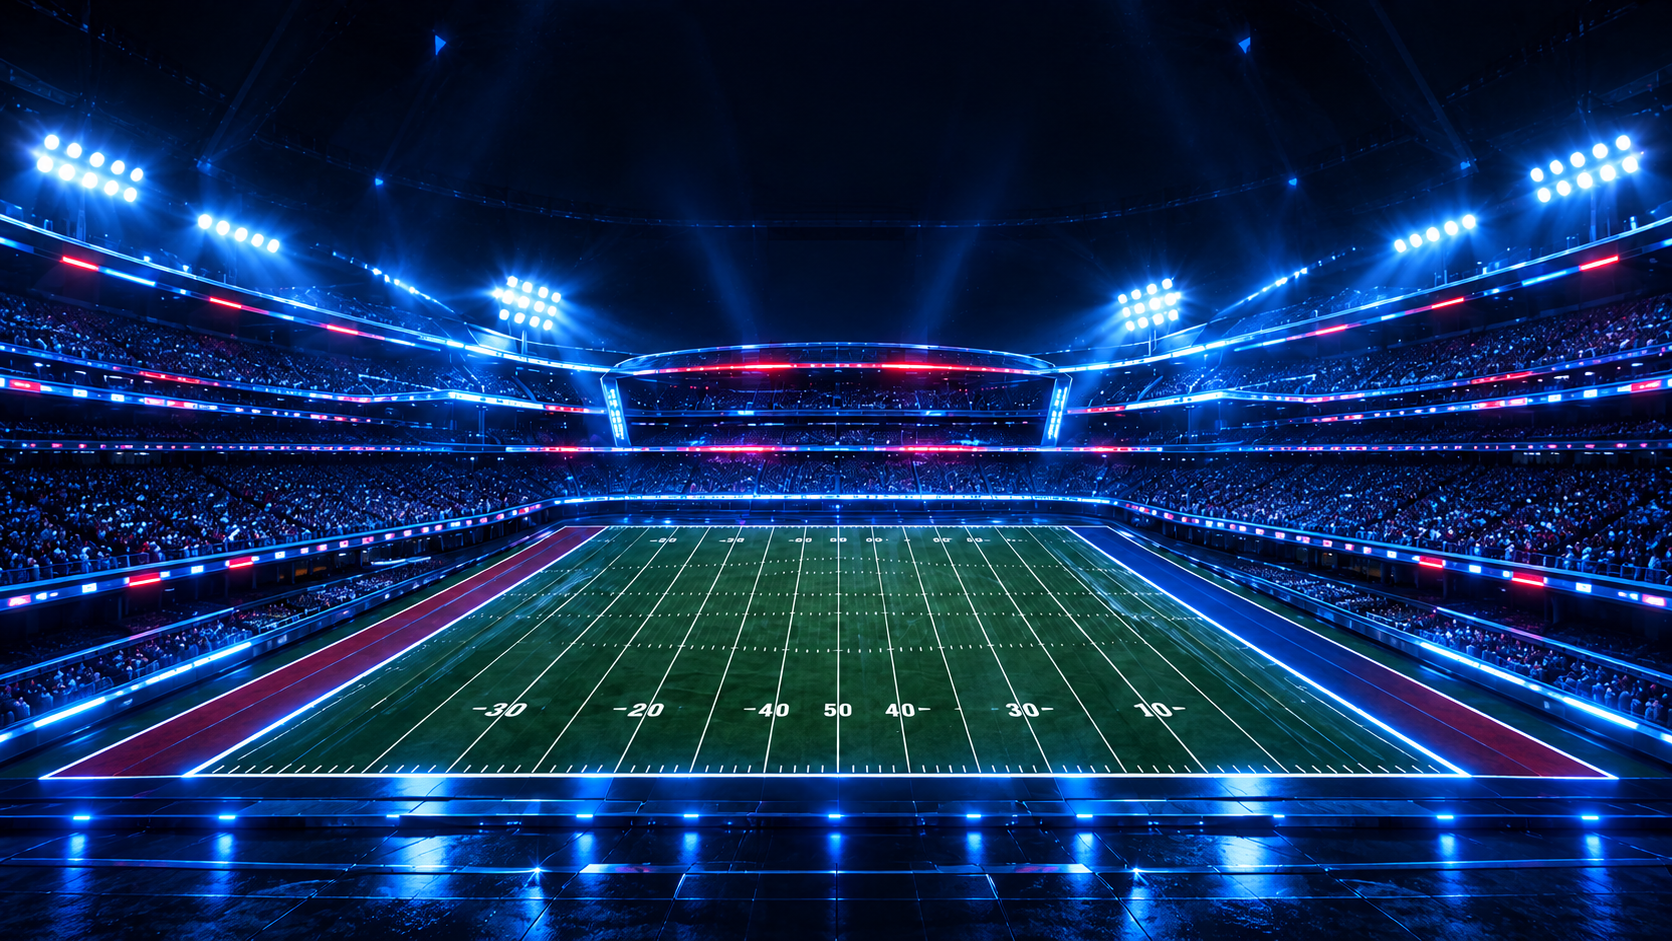
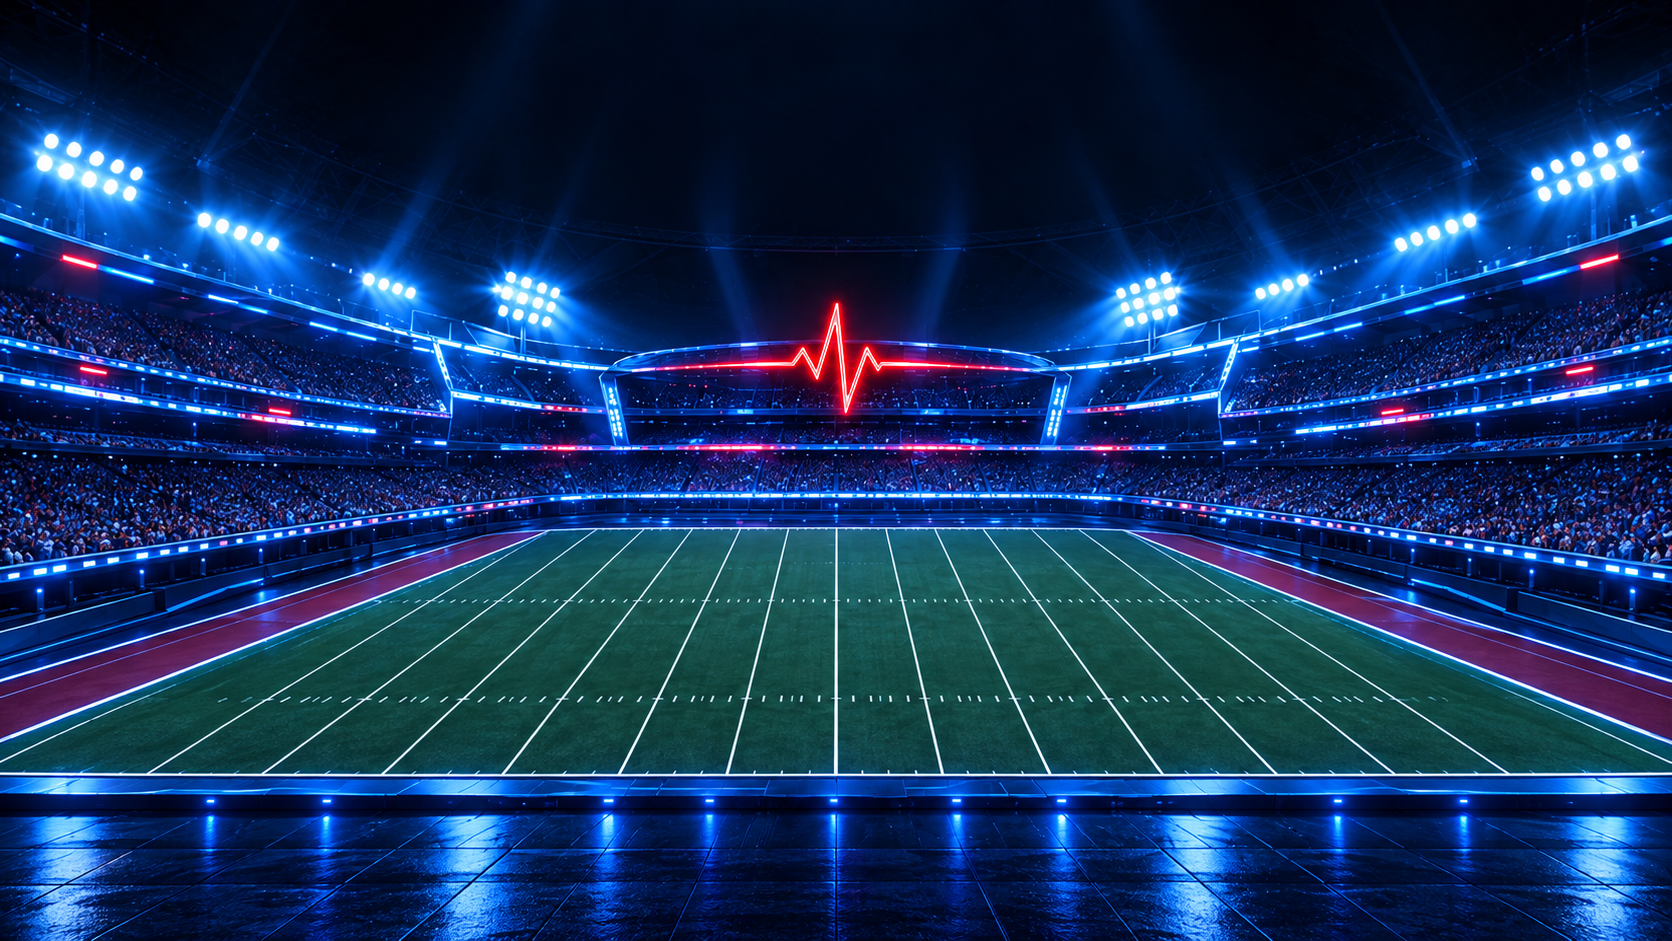
Polish reference stadium and precise midfield markings

diff --git a/src/services/nflSimulationGraphic.ts b/src/services/nflSimulationGraphic.ts
@@ -129,13 +129,16 @@ export async function renderSimulationGraphic(scenario: SimulationScenario, kick
     const midfield = scenario.home.abbr === 'NYG' ? 'NY' : teamMarkAbbr(scenario.home.abbr);
     ctx.save();
     // A circular turf marking appears foreshortened in the stadium perspective.
-    ctx.translate(0, 310.5);
+    ctx.translate(0, 270.5);
     ctx.scale(1, .55);
     const centerY = 690;
-    ctx.globalAlpha = .8;
+    ctx.globalAlpha = .95;
     ctx.globalCompositeOperation = 'source-over';
-    ctx.beginPath(); ctx.ellipse(800, centerY, 65, 65, 0, 0, Math.PI * 2);
-    ctx.strokeStyle = '#e9eee4'; ctx.lineWidth = 3; ctx.stroke();
+    ctx.beginPath(); ctx.ellipse(800, centerY, 70, 70, 0, 0, Math.PI * 2);
+    ctx.fillStyle = '#082453'; ctx.fill();
+    ctx.strokeStyle = '#edba46'; ctx.lineWidth = 10; ctx.stroke();
+    ctx.beginPath(); ctx.ellipse(800, centerY, 76, 76, 0, 0, Math.PI * 2);
+    ctx.strokeStyle = '#f5f1de'; ctx.lineWidth = 2; ctx.stroke();
     ctx.font = '700 48px Oswald'; ctx.fillStyle = scenario.home.abbr === 'NYG' ? '#145cff' : homeColor;
     ctx.fillText(midfield, 800 - ctx.measureText(midfield).width / 2, centerY + 17);
     ctx.clip();
@@ -144,6 +147,18 @@ export async function renderSimulationGraphic(scenario: SimulationScenario, kick
     for (let blade = 0; blade < 70; blade++) {
       const x = 735 + blade * 2;
       ctx.beginPath(); ctx.moveTo(x, centerY - 65); ctx.lineTo(x + 5, centerY + 65); ctx.stroke();
+    }
+    ctx.restore();
+    ctx.save();
+    ctx.fillStyle = '#e9eee4';
+    const yardNumbers = [10, 20, 30, 40, 50, 40, 30, 20, 10];
+    for (const [index, value] of yardNumbers.entries()) {
+      ctx.font = '700 16px "DM Sans"';
+      const farX = 548 + index * 63;
+      ctx.fillText(String(value), farX - ctx.measureText(String(value)).width / 2, 577);
+      ctx.font = '700 26px "DM Sans"';
+      const nearX = 200 + index * 150;
+      ctx.fillText(String(value), nearX - ctx.measureText(String(value)).width / 2, 765);
     }
     ctx.restore();
   }

diff --git a/README.md b/README.md
@@ -2,7 +2,7 @@
 
 Mobile Angle posts use tighter spacing and 20px headlines while retaining 13px body text and unchanged button targets. Notification settings retain the confirmed choice when checks fail; stale checks cannot overwrite preference writes. Device permissions and expired subscriptions still require device-level attention.
 
-Landscape pregame simulation downloads use reference-matched generated night-stadium artwork with a centered perspective field, tiered stands, clustered blue floodlights and a wet tiled foreground. Midfield abbreviation marks use foreshortening, transparent paint and turf texture instead of solid badges; header pulses and bottom side streaks are omitted. The artwork retains electric-blue floodlights, red LED accents, packed stands and a reflective field, plus live-rendered abbreviation-only midfield marks. Both pregame formats show two usage-ranked running-back projections per team when available; missing projections remain explicitly unavailable. GameWire fonts, colors, simulation values and disclaimers remain; postgame exports retain their existing layouts.
+Landscape pregame simulation downloads use reference-matched generated night-stadium artwork with a centered perspective field, tiered stands, clustered blue floodlights and a wet tiled foreground. Midfield abbreviation marks use a centered navy turf badge with a yellow ring, white outline and perspective foreshortening. Yard numbers are rendered in software in symmetric 10–50–10 sequences rather than generated into the artwork. A single red stadium-center pulse matches the reference; header pulses and bottom side streaks remain omitted. The artwork retains electric-blue floodlights, red LED accents, packed stands and a reflective field, plus live-rendered abbreviation-only midfield marks. Both pregame formats show two usage-ranked running-back projections per team when available; missing projections remain explicitly unavailable. GameWire fonts, colors, simulation values and disclaimers remain; postgame exports retain their existing layouts.
 
 A responsive NFL hub with live scoreboards, weekly matchups, player statistics, and a favorite-centered feed called Your Locker Room.
 
